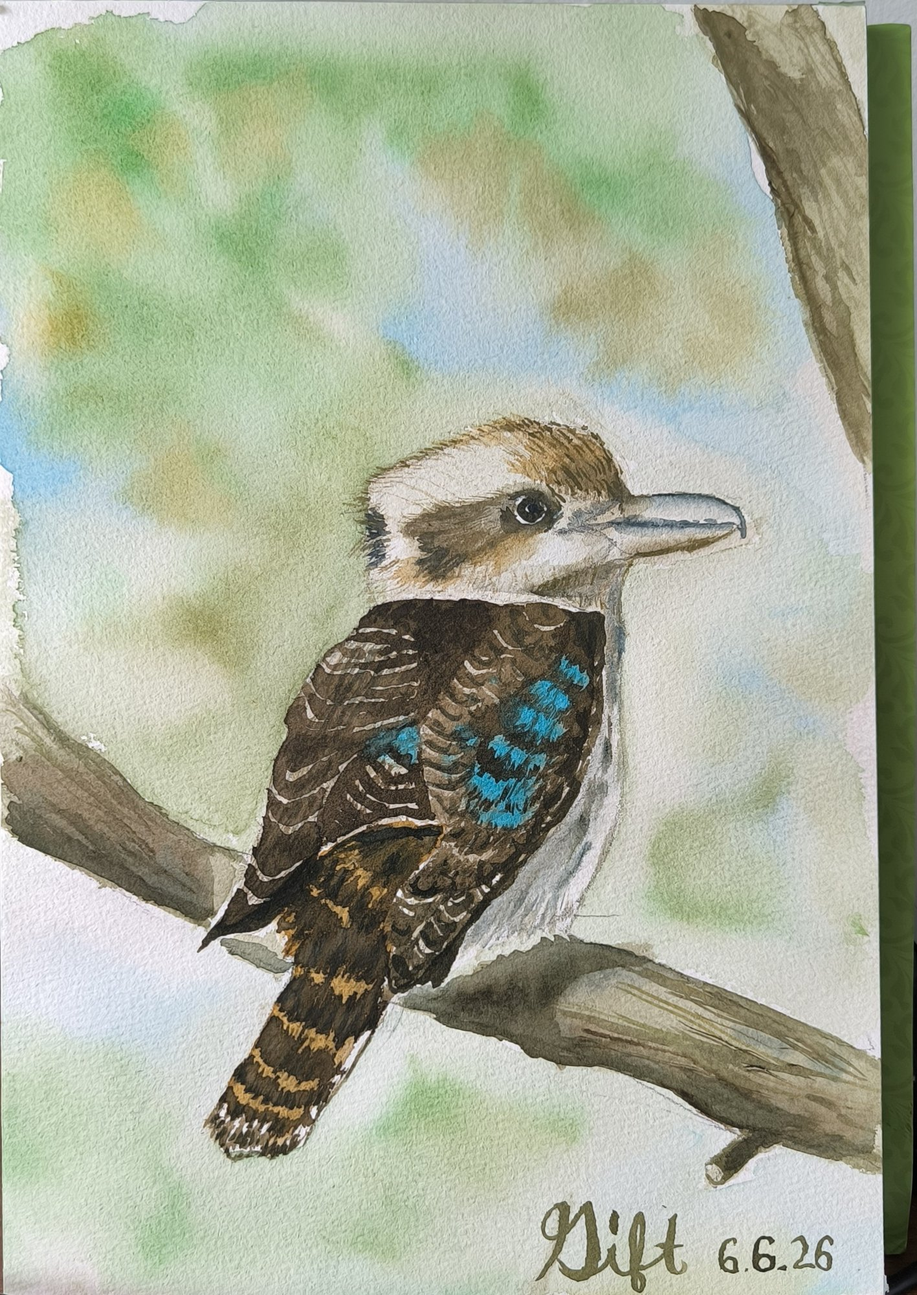
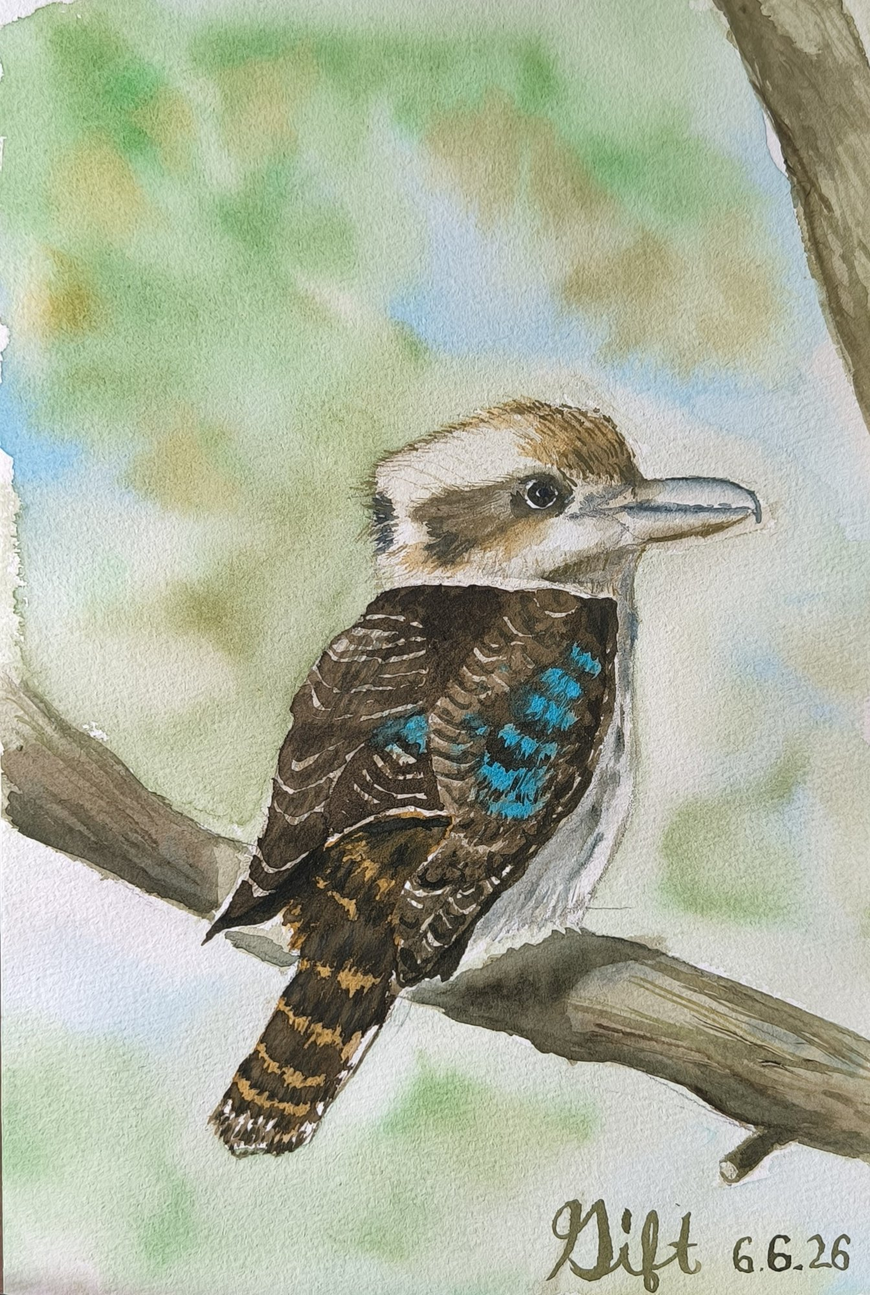
Crop paintings to their edges; show full aspect ratios in grid
Claude-Session: https://claude.ai/code/session_0149giyporqB135yuCmCV2uw

diff --git a/index.html b/index.html
@@ -65,13 +65,12 @@
     max-width: 1100px;
     margin: 0 auto;
     padding: 24px 24px 80px;
-    display: grid;
-    grid-template-columns: repeat(auto-fill, minmax(300px, 1fr));
-    gap: 48px 36px;
+    columns: 3 280px;
+    column-gap: 36px;
   }
-  figure { cursor: zoom-in; }
+  figure { cursor: zoom-in; break-inside: avoid; margin-bottom: 44px; }
   figure img {
-    width: 100%; aspect-ratio: 4 / 5; object-fit: cover;
+    width: 100%; height: auto;
     display: block; background: var(--line);
     transition: opacity 0.3s;
   }
